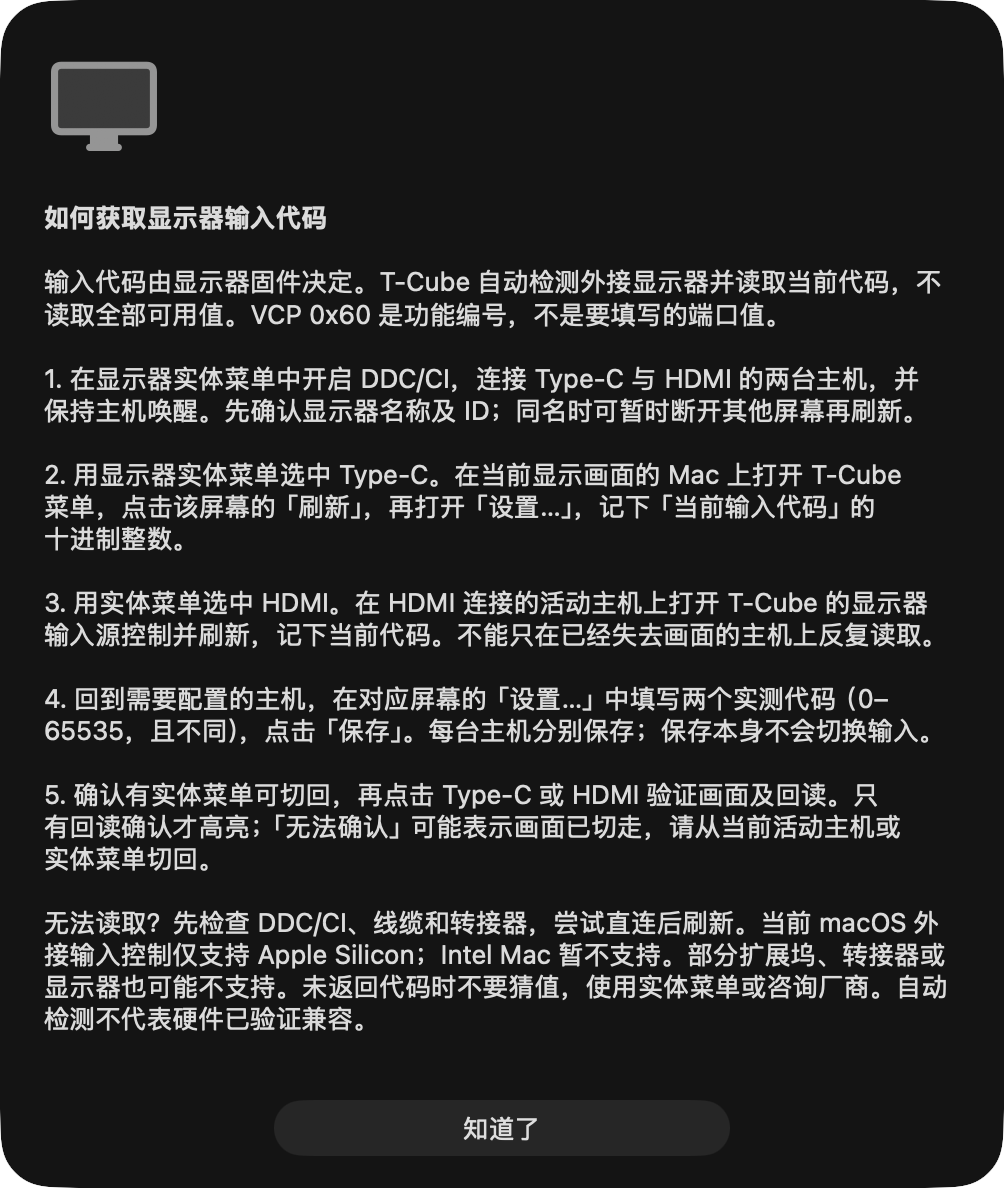
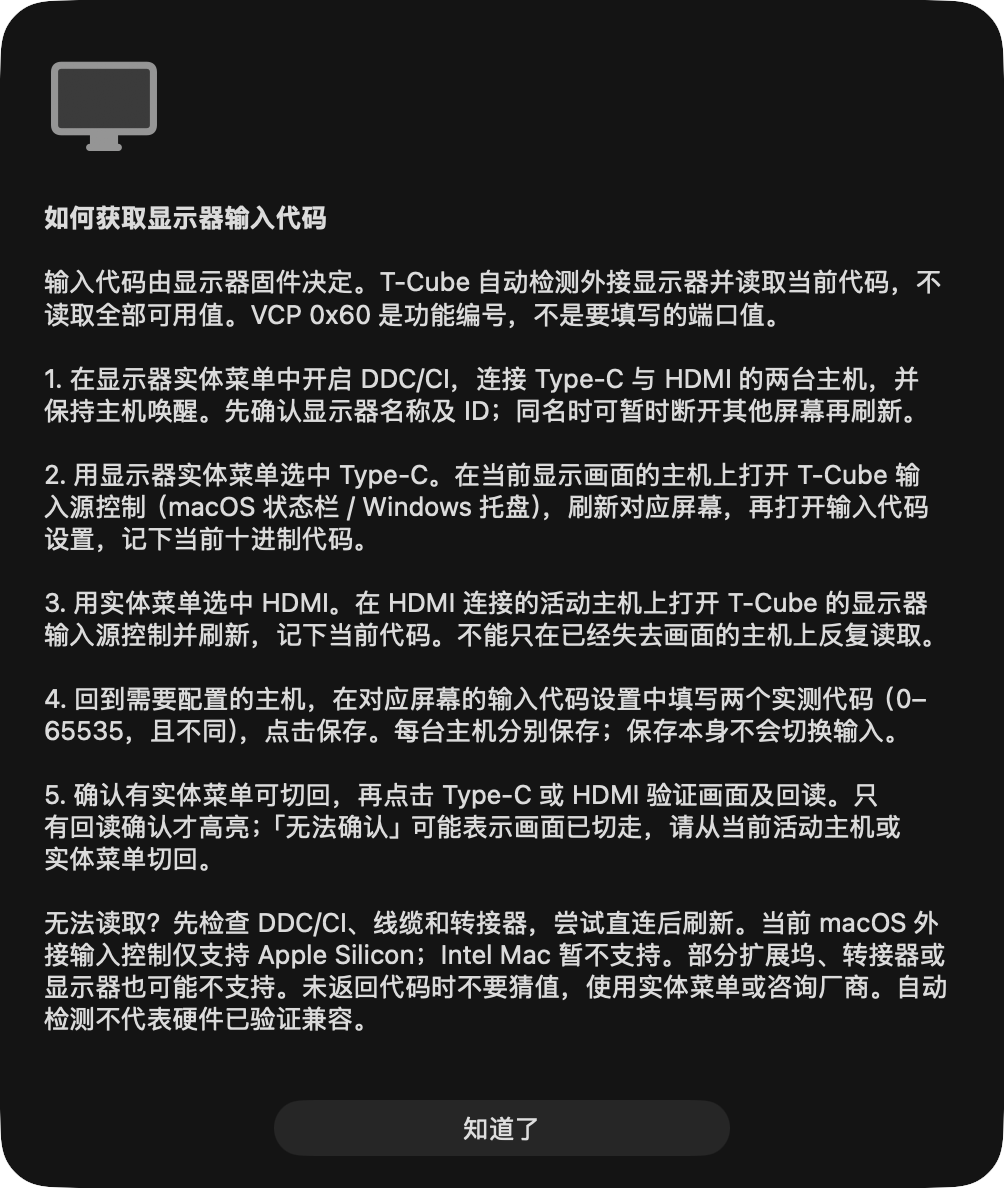
fix: describe input calibration on either active host

Changed region(s): [[0.0309, 0.3737, 0.9263, 0.4672], [0.3088, 0.5606, 0.9263, 0.6229]]

diff --git a/Sources/TCube/DisplayInputHelp.swift b/Sources/TCube/DisplayInputHelp.swift
@@ -12,11 +12,11 @@ import CubeCore
 
         1. 在显示器实体菜单中开启 DDC/CI，连接 Type-C 与 HDMI 的两台主机，并保持主机唤醒。先确认显示器名称及 ID；同名时可暂时断开其他屏幕再刷新。
 
-        2. 用显示器实体菜单选中 Type-C。在当前显示画面的 Mac 上打开 T-Cube 菜单，点击该屏幕的「刷新」，再打开「设置…」，记下「当前输入代码」的十进制整数。
+        2. 用显示器实体菜单选中 Type-C。在当前显示画面的主机上打开 T-Cube 输入源控制（macOS 状态栏 / Windows 托盘），刷新对应屏幕，再打开输入代码设置，记下当前十进制代码。
 
         3. 用实体菜单选中 HDMI。在 HDMI 连接的活动主机上打开 T-Cube 的显示器输入源控制并刷新，记下当前代码。不能只在已经失去画面的主机上反复读取。
 
-        4. 回到需要配置的主机，在对应屏幕的「设置…」中填写两个实测代码（0–65535，且不同），点击「保存」。每台主机分别保存；保存本身不会切换输入。
+        4. 回到需要配置的主机，在对应屏幕的输入代码设置中填写两个实测代码（0–65535，且不同），点击保存。每台主机分别保存；保存本身不会切换输入。
 
         5. 确认有实体菜单可切回，再点击 Type-C 或 HDMI 验证画面及回读。只有回读确认才高亮；「无法确认」可能表示画面已切走，请从当前活动主机或实体菜单切回。
 
